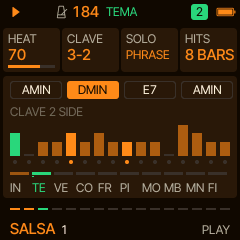
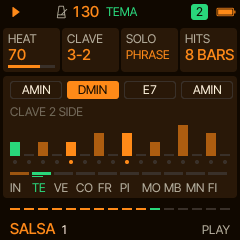
SALSA at 130, the solo trumpet played like a player
SALSA's tempo is 130. The solo's notes are each a little late or not (up to
20 ms), louder or softer (-12 .. +8), and held their own length, as a
player's are.

Claude-Session: https://claude.ai/code/session_01VgesZfE8qndbNyhtoqzKDD

diff --git a/firmware/src/ma_groove.c b/firmware/src/ma_groove.c
@@ -131,7 +131,7 @@ enum { SR_FAST, SR_MID, SR_SLOW };
  * 1 UPRIGHT 2 FM BASS 3 SUB 4 SLAP 5 FRETLESS 6 ROUND 7 TUBA; HORNS 0 TPT+TBN 1 TRUMPET 2 REQUINTO 3 SAX 4 PANPIPE 5 VIOLINS
  * 6 ACCORDION 7 BANDONEON. The percussion's set is the style's own (snd[3] = the style) */
 const ma_style MA_STYLE[MA_STYLES] = {
-    {"SALSA", MA_SIDE_CALIENTE, 164, 9, MA_SC_MINOR, 70, MA_CLAVE_32, MA_HITS_8, {0, 0, 0}, {3, 1, 6, 0}, 1, 0,
+    {"SALSA", MA_SIDE_CALIENTE, 130, 9, MA_SC_MINOR, 70, MA_CLAVE_32, MA_HITS_8, {0, 0, 0}, {3, 1, 6, 0}, 1, 0,
      PF_MONTUNO, BF_TUMBAO, HF_SALSA, MA_ST_SALSA, 1, 30, 35, 20, MA_MUTE_AUTO, {{7, 3, 0}, {1, 2, 5}, {1, 3, 0}}},
     {"MAMBO", MA_SIDE_CALIENTE, 170, 7, MA_SC_MAJOR, 85, MA_CLAVE_23, MA_HITS_8, {0, 1, 0}, {1, 0, 11, 2}, 1, 0,
      PF_MONTUNO, BF_TUMBAO, HF_MAMBO, MA_ST_MAMBO, 1, 35, 40, 25, MA_MUTE_AUTO, {{2, 0, 2}, {0, 2, 6}, {1, 0, 3}}},
@@ -1680,8 +1680,12 @@ static void play_horns(ma_groove *g, int i, uint32_t delay, float sf, float hum)
         len = 16 - i;
         g->vib = true;
     }
+    /* a player, not a sequencer: each note a little late or not (up to 20 ms), louder or softer, held its own length */
     int vel = 100 + (i % 4 == 0 ? 8 : 0) + (i % 2 ? 4 : 0) + (int)(hum * 6.0f);   /* (the off-beats leaned on) */
-    schedule(g, delay, MA_HORNS, n, clampi(vel, 1, 127), sf * (float)len * (len >= 4 ? 0.95f : 0.8f));
+    vel += rnd_n(&g->rnd, 21) - 12;
+    uint32_t late = (uint32_t)((float)rnd_n(&g->rnd, 21) * g->sr * 0.001f);
+    float hold = len >= 4 ? 0.82f + 0.03f * (float)rnd_n(&g->rnd, 6) : 0.55f + 0.06f * (float)rnd_n(&g->rnd, 6);
+    schedule(g, delay + late, MA_HORNS, n, clampi(vel, 1, 127), sf * (float)len * hold);
 }
 
 /* the cierre: the whole band hits the clave's figure of the bar together, nothing between (a band hit, the FIN) */

diff --git a/README.md b/README.md
@@ -67,7 +67,7 @@ first. Installing firmware is at your own risk.
 
 | CALIENTE | | NOCHE | |
 | --- | --- | --- | --- |
-| **SALSA** · 164 | montuno, tumbao, trumpet and trombone, timbales and bells | **SON** · 100 | old Havana: the upright's montuno laid back, the acoustic bass, one trumpet, bongó, maracas, a warm room |
+| **SALSA** · 130 | montuno, tumbao, trumpet and trombone, timbales and bells | **SON** · 100 | old Havana: the upright's montuno laid back, the acoustic bass, one trumpet, bongó, maracas, a warm room |
 | **MAMBO** · 170 | big-band riffs, the mambo bell, 2-3 | **CHA-CHA** · 120 | güiro and bell, the cha-cha-chá bass, charanga violins |
 | **MERENGUE** · 138 | fast tambora, the güira's scrape, sax riffs | **BOLERO** · 80 | arpeggios, a harmon-muted trumpet, soft bongos |
 | **CUMBIA** · 98 | accordion, guacharaca, the llamador's offbeat | **BOSSA** · 136 | the nylon guitar's bossa, rim clicks, sevenths, a tenor sax |

diff --git a/docs/DEVELOPMENT.md b/docs/DEVELOPMENT.md
@@ -111,7 +111,7 @@ Manta's files are `firmware/src/ma_*`, `tests/ma_*`, `tools/ma_*`, `web/ma_*` an
 - **The fast styles count two bars to the clave.** Salsa, mambo, merengue and the guaracha are written as the
   dancers count them, two bars of 4/4 to a clave (a tempo of 140 to 200), so their pulse is the eighth: their
   piano, guitar, solo and texture keep to the eighths (a sixteenth there would sound as a thirty-second, frantic).
-  Their tempos sit at the relaxed end: SALSA 164, MAMBO 170, GUARACHA 176, MERENGUE 138.
+  Their tempos sit at the relaxed end: SALSA 130, MAMBO 170, GUARACHA 176, MERENGUE 138.
 - **A bass that goes on.** The UPRIGHT is a sampled double bass (VSCO 2 CE, plucked, 11.025 kHz, about 12 KB: the
   triangle and the upright piano's tails a little shorter made the room). Each bar the bass plays its pattern as
   written about half the time, otherwise another of its family's rhythms, or holds back its first note, or on a
